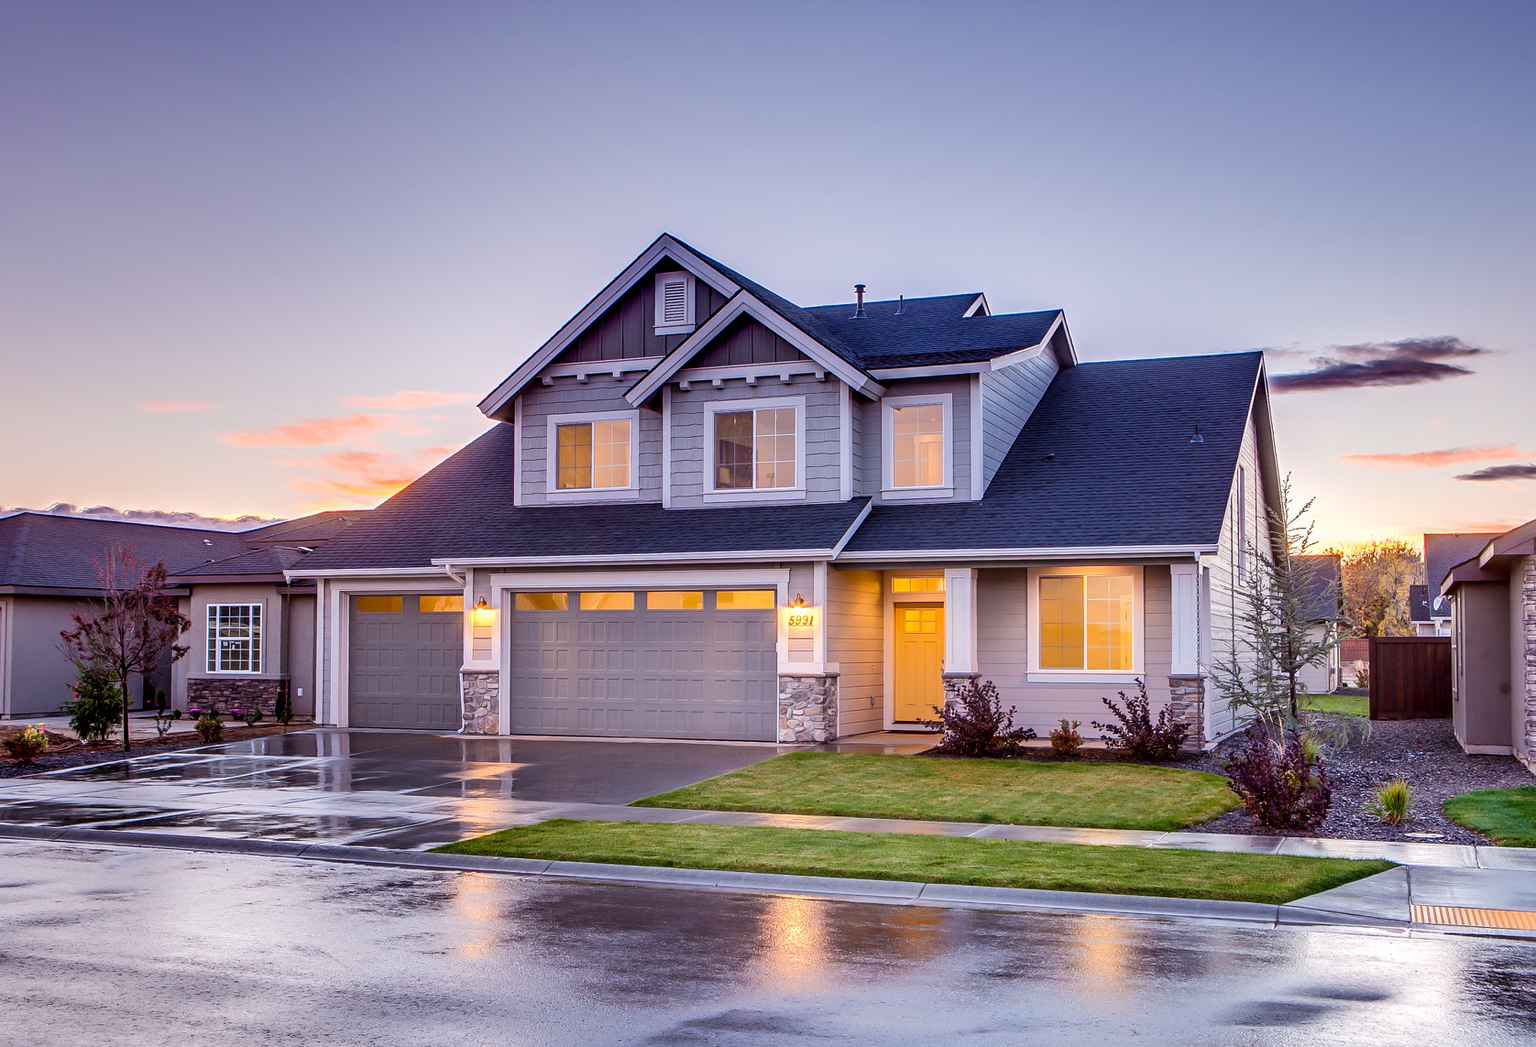
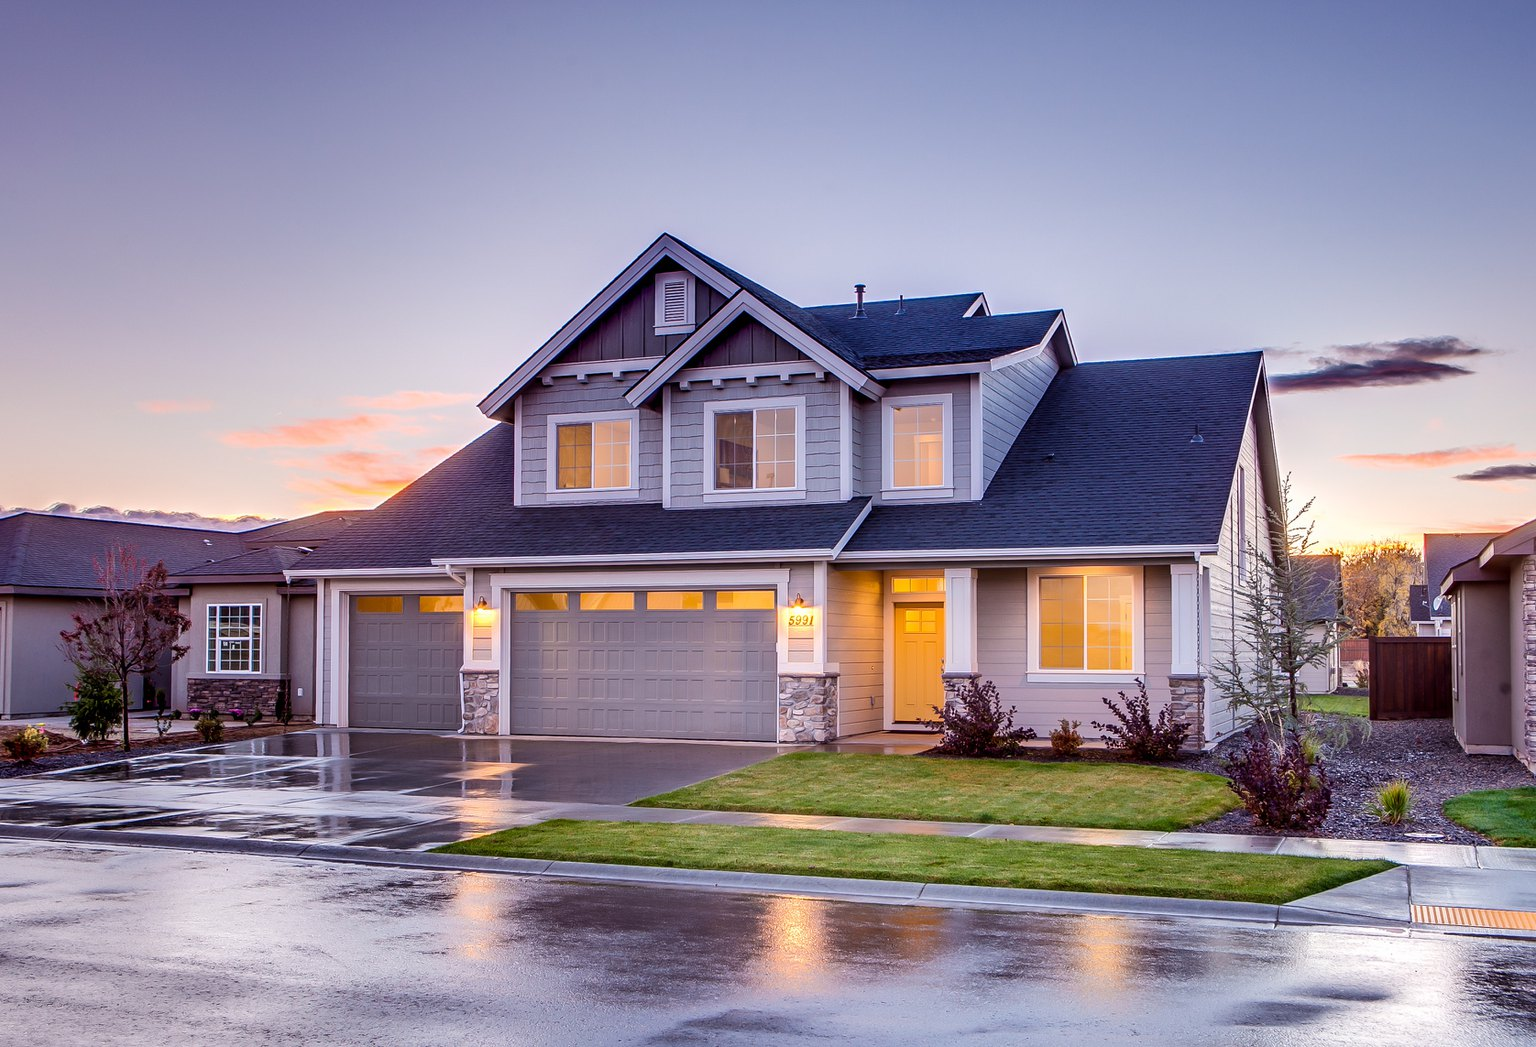
Rename all 140kB folders to 140kb

diff --git a/local_static/img/resize-all-images.py b/local_static/img/resize-all-images.py
@@ -25,7 +25,7 @@
 from PIL import Image
 import os, sys
 
-size_target = 140000  # Ideal image size (in bytes)
+size_target = 340000  # Ideal image size (in bytes)
 max_iterations = 7    # Number of iterations to find optimized quality value
 L = 1                 # Left pointer
 R = 100               # Right pointer
